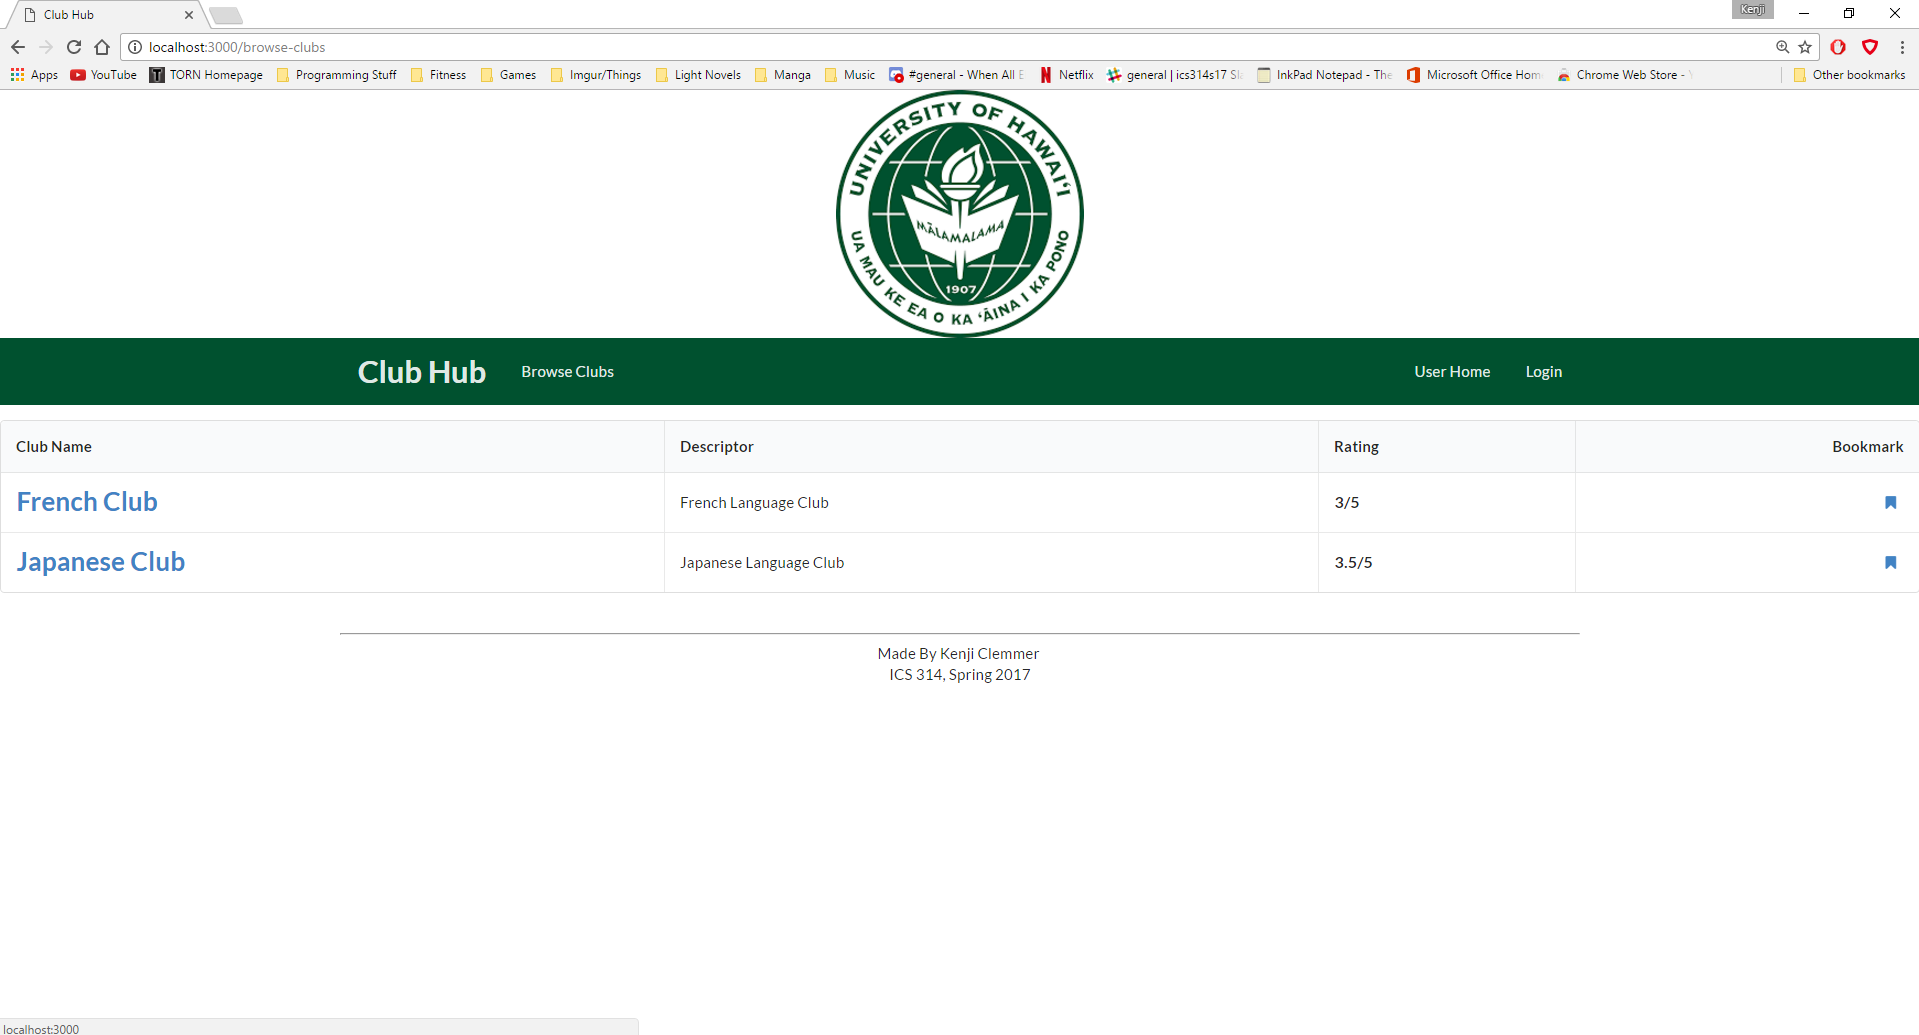
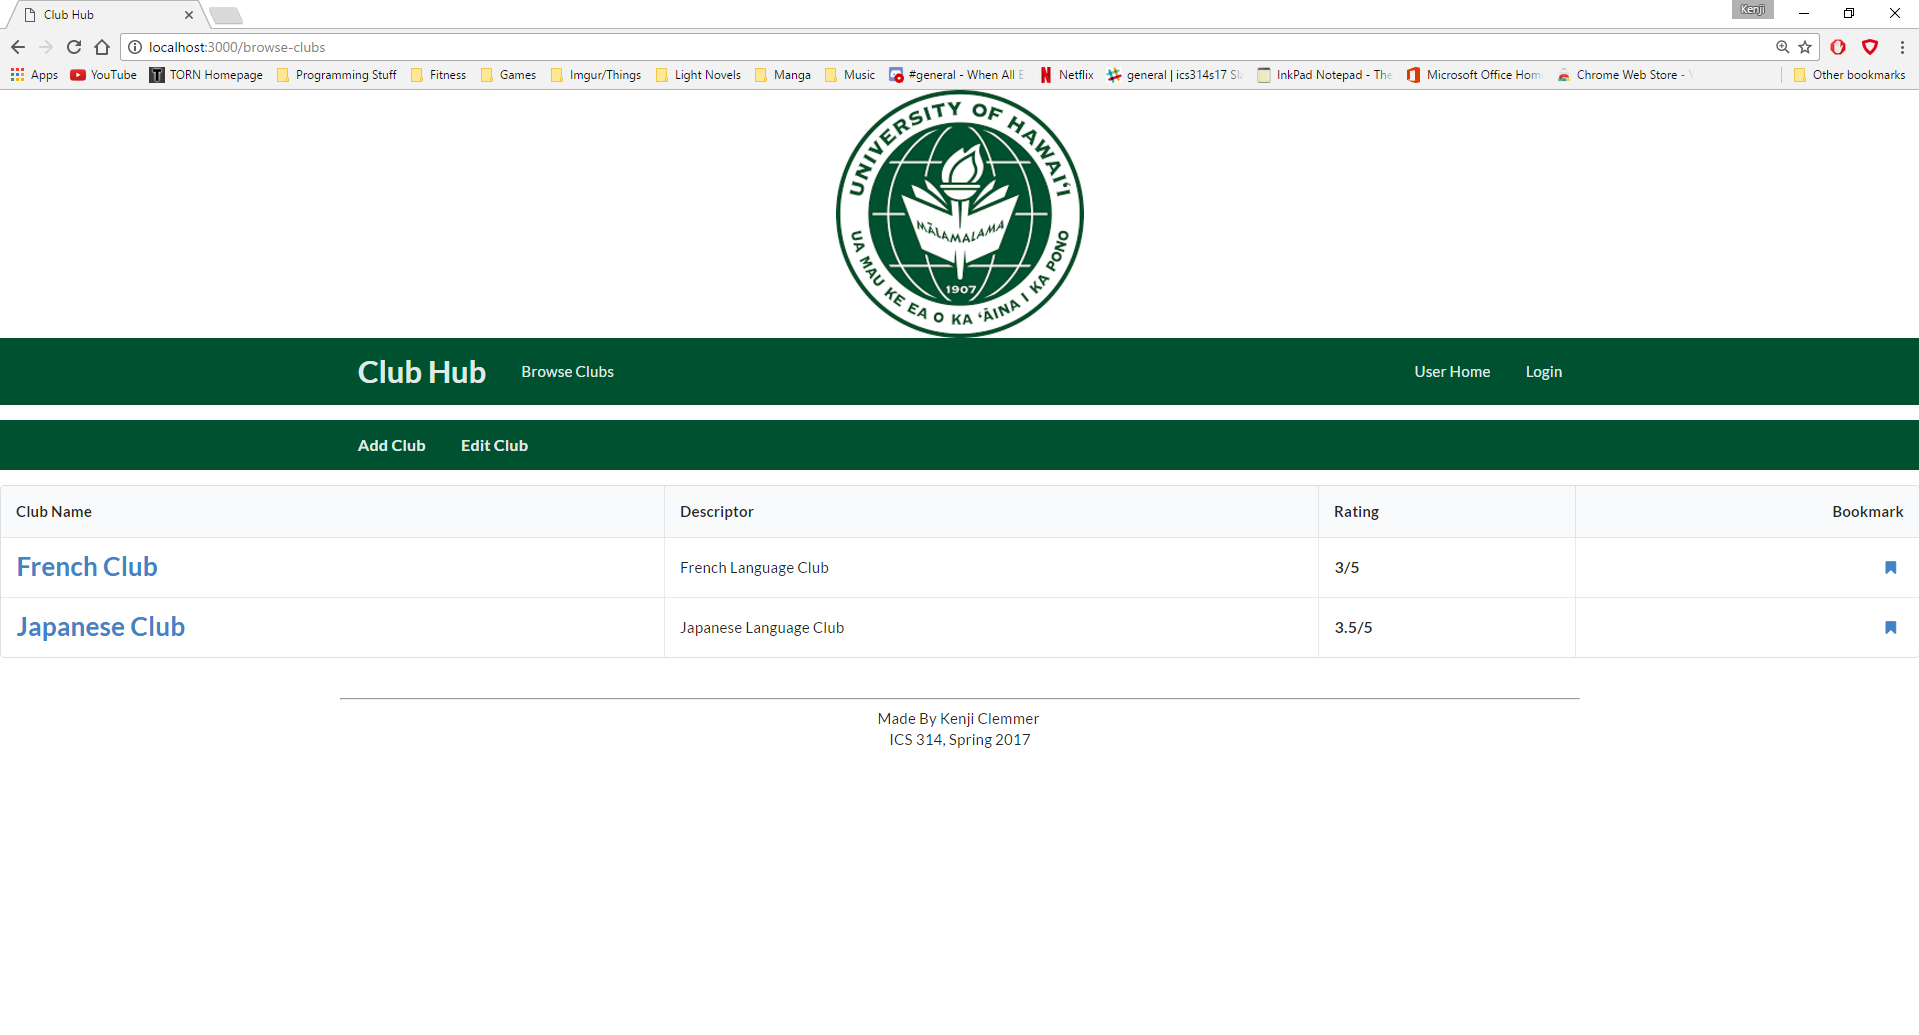
Add/Edit Pages Added

diff --git a/app/imports/ui/pages/edit-club-page.html b/app/imports/ui/pages/edit-club-page.html
@@ -1,0 +1,72 @@
+<template name="Edit_Club_Page">
+
+  <div style="top-margin: 20px; border-radius: 0px" class="ui borderless inverted menu">
+    <div class="ui container">
+      <a class="item" href="{{pathFor 'Add_Club_Page'}}"><h4>Add Club</h4></a>
+      <a class="item" href="{{pathFor 'Edit_Club_Page'}}"><h4>Edit Club</h4></a>
+    </div>
+  </div>
+
+  <div class="ui container">
+    <h3>Edit Club</h3><br>
+  </div>
+
+  <div class="ui container">
+    <div class="ui form">
+      <div class="fields">
+
+        <div class="required field">
+          <label>Club Name</label>
+          <input type="text" placeholder="Club Name">
+        </div>
+
+        <div class="required field">
+          <label>Type</label>
+          <div class="ui form">
+            <div class="field">
+              <select>
+                <option value="">Type</option>
+                <option value="9">Academic/Professional</option>
+                <option value="8">Ethnic/Cultural</option>
+                <option value="7">Fraternity/Sorority</option>
+                <option value="6">Honorary Society</option>
+                <option value="5">Leisure/Recreational</option>
+                <option value="4">Political</option>
+                <option value="3">Religious/Spiritual</option>
+                <option value="2">Service</option>
+                <option value="1">Sports/Leisure</option>
+                <option value="0"> Student Affairs</option>
+              </select>
+            </div>
+          </div>
+        </div>
+      </div>
+
+      <p><b>Contact Person</b></p>
+
+      <div class="fields">
+        <div class="field">
+          <label>First Name</label>
+          <input type="text" placeholder="First Name">
+        </div>
+
+        <div class="field">
+          <label>Last Name</label>
+          <input type="text" placeholder="Last Name">
+        </div>
+
+      </div>
+
+      <div class="fields">
+        <div class="field">
+          <label>Contact Email</label>
+          <input type="text" placeholder="Someone@hawaii.edu">
+        </div>
+      </div>
+
+      <button style="background-color: #00512f" class="ui primary button" type="submit">Submit</button>
+
+    </div>
+  </div>
+</template>
+

diff --git a/app/imports/ui/pages/add-club-page.html b/app/imports/ui/pages/add-club-page.html
@@ -1,0 +1,72 @@
+<template name="Add_Club_Page">
+
+  <div style="top-margin: 20px; border-radius: 0px" class="ui borderless inverted menu">
+    <div class="ui container">
+      <a class="item" href="{{pathFor 'Add_Club_Page'}}"><h4>Add Club</h4></a>
+      <a class="item" href="{{pathFor 'Edit_Club_Page'}}"><h4>Edit Club</h4></a>
+    </div>
+  </div>
+
+  <div class="ui container">
+    <h3>Add Club</h3><br>
+  </div>
+
+  <div class="ui container">
+    <div class="ui form">
+      <div class="fields">
+
+        <div class="required field">
+          <label>Club Name</label>
+          <input type="text" placeholder="Club Name">
+        </div>
+
+        <div class="required field">
+          <label>Type</label>
+          <div class="ui form">
+            <div class="field">
+              <select>
+                <option value="">Type</option>
+                <option value="9">Academic/Professional</option>
+                <option value="8">Ethnic/Cultural</option>
+                <option value="7">Fraternity/Sorority</option>
+                <option value="6">Honorary Society</option>
+                <option value="5">Leisure/Recreational</option>
+                <option value="4">Political</option>
+                <option value="3">Religious/Spiritual</option>
+                <option value="2">Service</option>
+                <option value="1">Sports/Leisure</option>
+                <option value="0"> Student Affairs</option>
+              </select>
+            </div>
+          </div>
+        </div>
+      </div>
+
+      <p><b>Contact Person</b></p>
+
+      <div class="fields">
+        <div class="field">
+          <label>First Name</label>
+          <input type="text" placeholder="First Name">
+        </div>
+
+        <div class="field">
+          <label>Last Name</label>
+          <input type="text" placeholder="Last Name">
+        </div>
+
+      </div>
+
+      <div class="fields">
+        <div class="field">
+          <label>Contact Email</label>
+          <input type="text" placeholder="Someone@hawaii.edu">
+        </div>
+      </div>
+
+      <button style="background-color: #00512f" class="ui primary button" type="submit">Submit</button>
+
+    </div>
+  </div>
+</template>
+

diff --git a/app/imports/startup/client/router.js b/app/imports/startup/client/router.js
@@ -30,6 +30,20 @@ FlowRouter.route('/browse-clubs', {
   },
 });
 
+FlowRouter.route('/add-club-page', {
+  name: 'Add_Club_Page',
+  action() {
+    BlazeLayout.render('App_Body', { main: 'Add_Club_Page' });
+  },
+});
+
+FlowRouter.route('/edit-club-page', {
+  name: 'Edit_Club_Page',
+  action() {
+    BlazeLayout.render('App_Body', { main: 'Edit_Club_Page' });
+  },
+});
+
 // use '/club-page/:_id' when using actual individuals pages
 FlowRouter.route('/club-page', {
   name: 'Club_Page',

diff --git a/app/imports/ui/pages/browse-clubs.html b/app/imports/ui/pages/browse-clubs.html
@@ -1,5 +1,12 @@
 <template name="Browse_Clubs">
 
+  <div style="top-margin: 20px; border-radius: 0px" class="ui borderless inverted menu">
+    <div class="ui container">
+      <a class="item" href="{{pathFor 'Add_Club_Page'}}"><h4>Add Club</h4></a>
+      <a class="item" href="{{pathFor 'Edit_Club_Page'}}"><h4>Edit Club</h4></a>
+    </div>
+  </div>
+
   <table class="ui celled padded table">
     <thead>
       <tr>

diff --git a/app/imports/ui/pages/index.js b/app/imports/ui/pages/index.js
@@ -18,3 +18,8 @@ import './terms-and-conditions.html';
 import './browse-clubs.html';
 
 import './club-page.html';
+
+import './add-club-page.html';
+
+import './edit-club-page.html';
+
